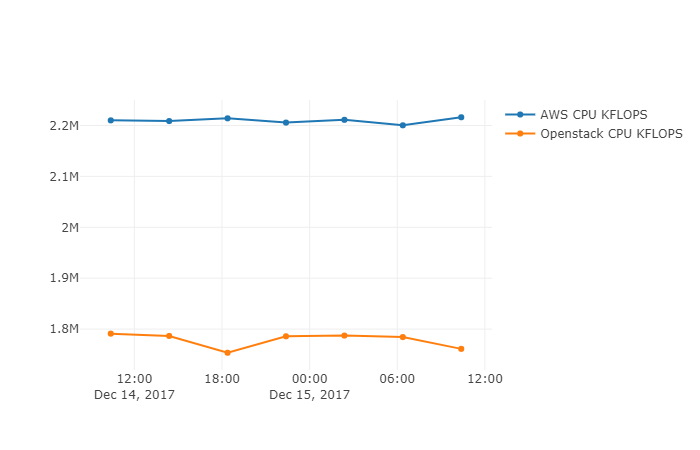
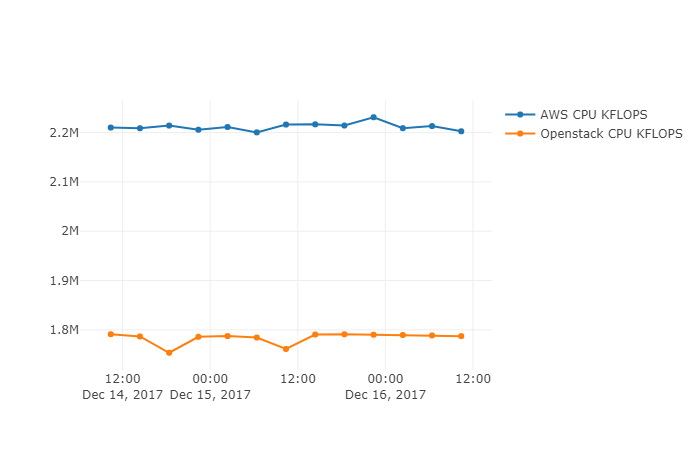
final results

diff --git a/benchmark.py b/benchmark.py
@@ -60,7 +60,7 @@ def main():
 
 
 if __name__ == "__main__":
-    for i in range(12):
+    while True:
         start = time.time()
         main()
         end = time.time()

diff --git a/README.md b/README.md
@@ -1,16 +1,16 @@
 # Simple VM Benchmark
 
 ## Results
-Sequential Disk
+#### Sequential Disk read/write MB/s
 ![Sequential Disk](img/seq_disk.png)
 
-Random Disk
+#### Random Disk read/write IOPS
 ![Random Disk](img/rnd_disk.png)
 
-Memory
+#### Memory access performance
 ![Memory](img/mem.png)
 
-CPU
+#### CPU KFLOPS
 ![CPU](img/cpu.png)
 
 ## Setup
